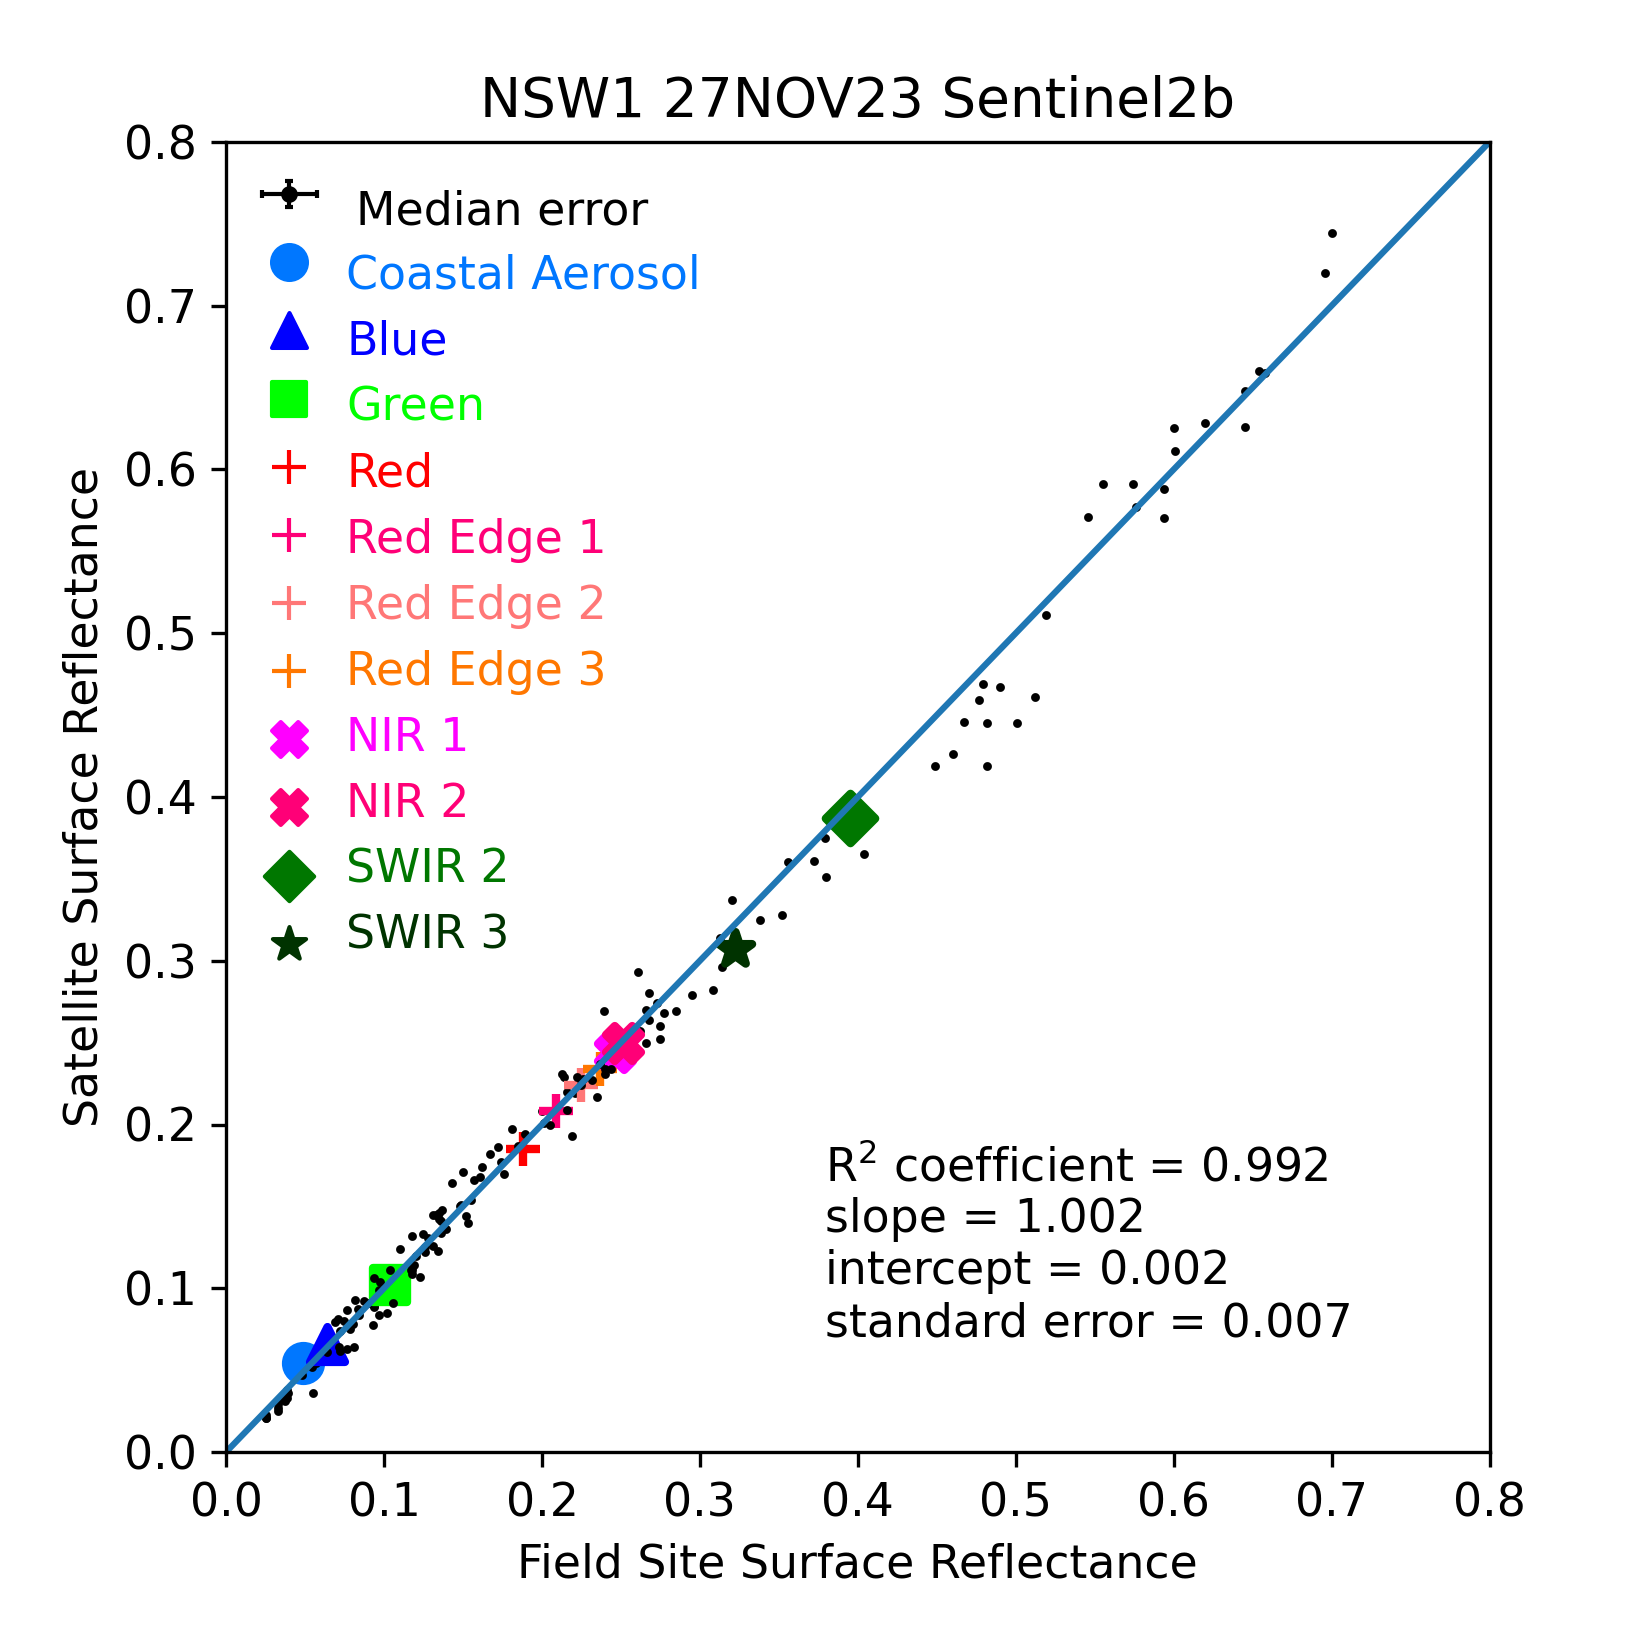
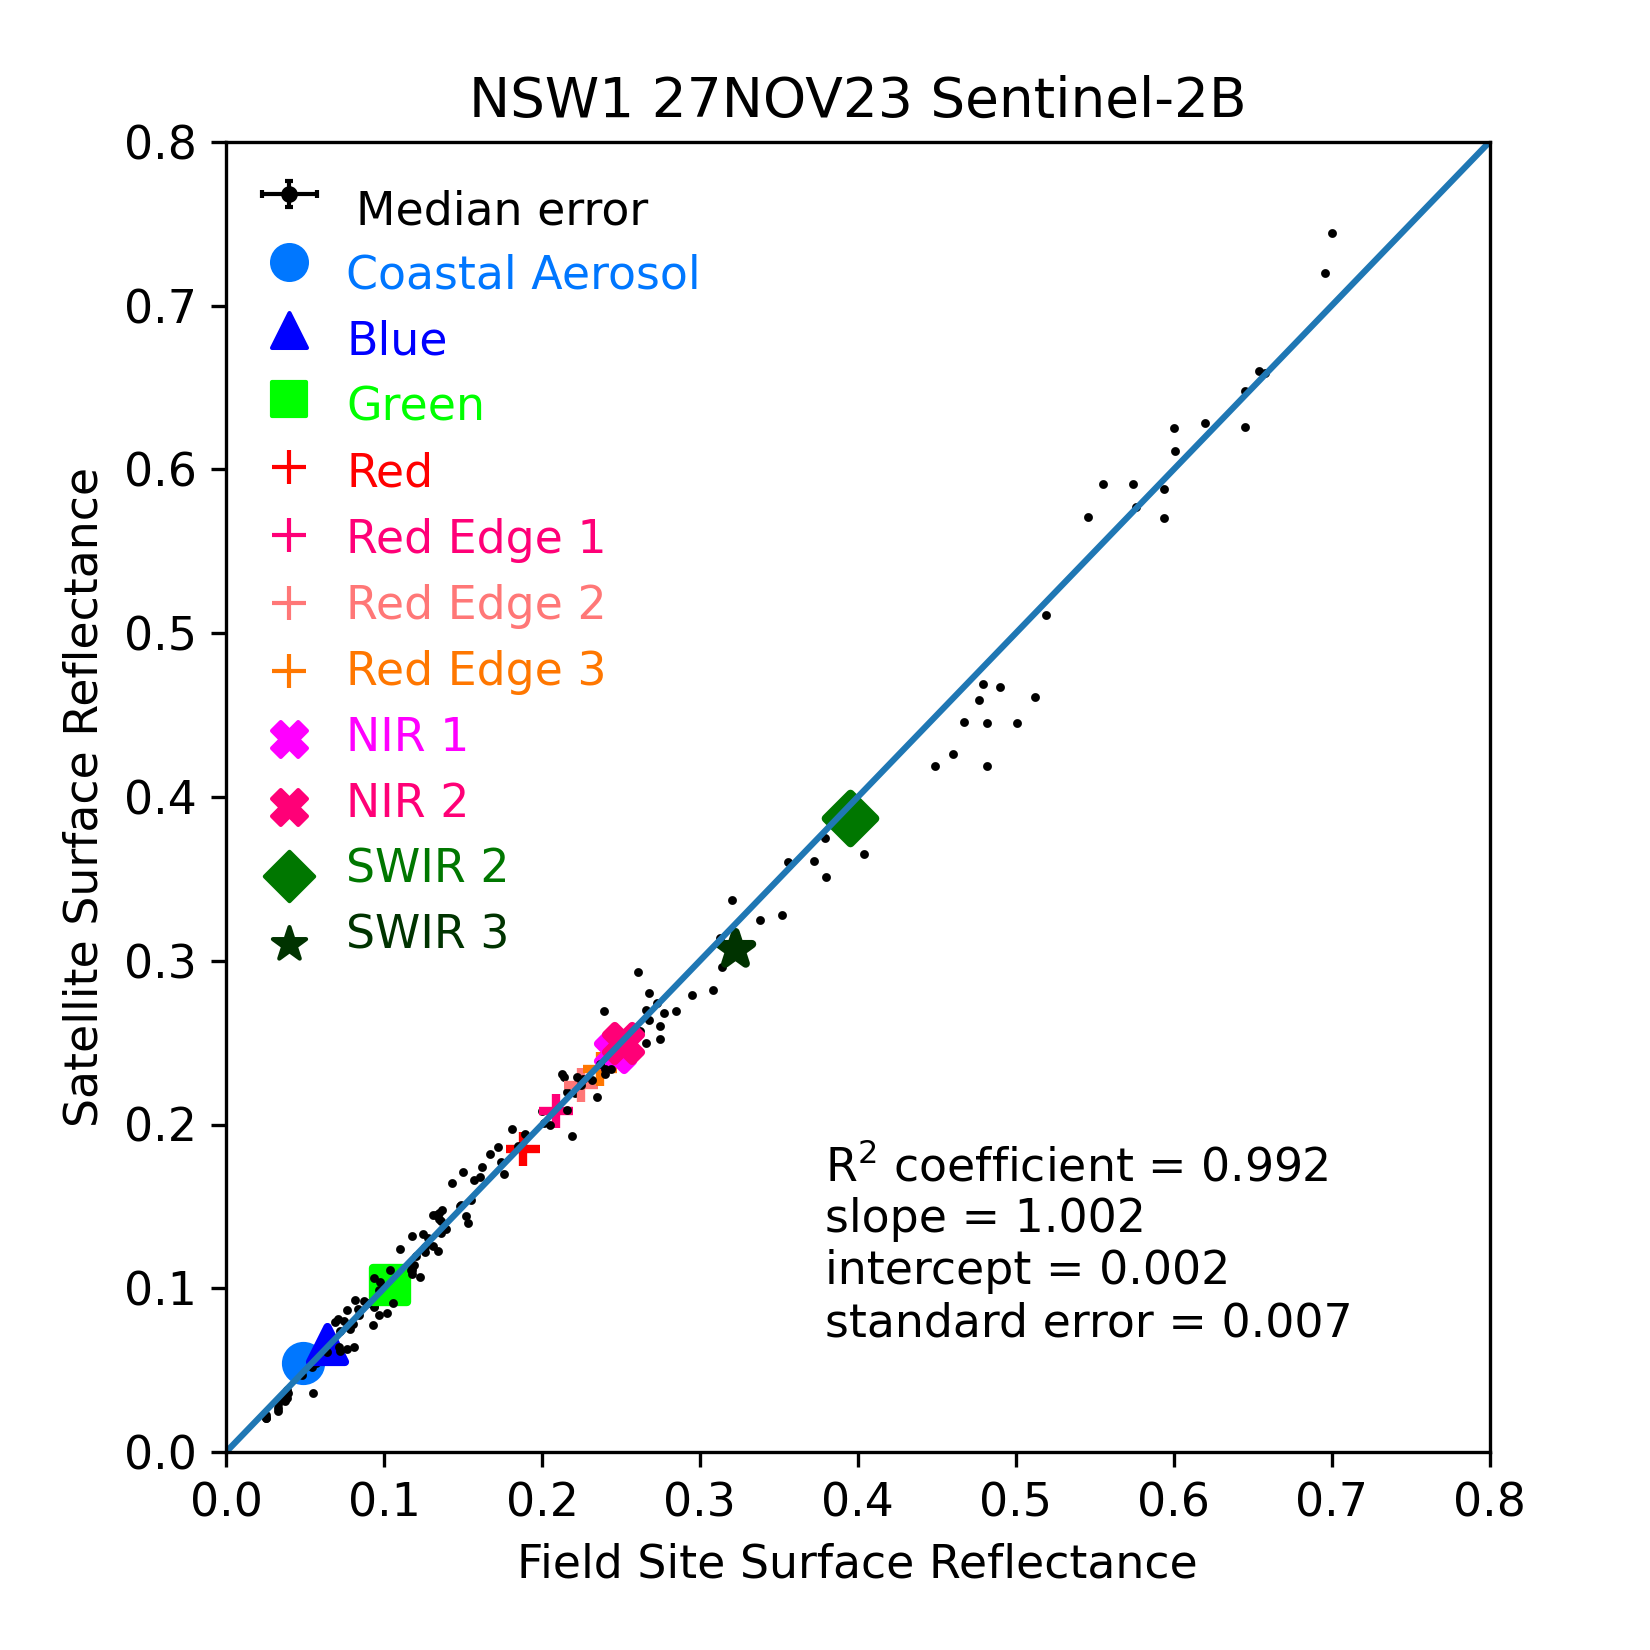
correct first report typos

Changed region(s): [[0.2782, 0.0309, 0.7727, 0.0927]]

diff --git a/docs/validation/daily-report/2023-11-27/index.md b/docs/validation/daily-report/2023-11-27/index.md
@@ -1,4 +1,5 @@
-# 2023-11-27: Transect NSW Site 1, Sentinel 2b overpass
+
+# 2023-11-27: Transect NSW Site 1, Sentinel-2B overpass
 
 A Daily Validation Summary Report of the surface reflectance data collected on the date of 2023-11-27 by Geoscience&nbsp;Australia. 
 The full collection of data is contained in the [National Spectral Database](https://www.dea.ga.gov.au/products/national-spectral-database).
